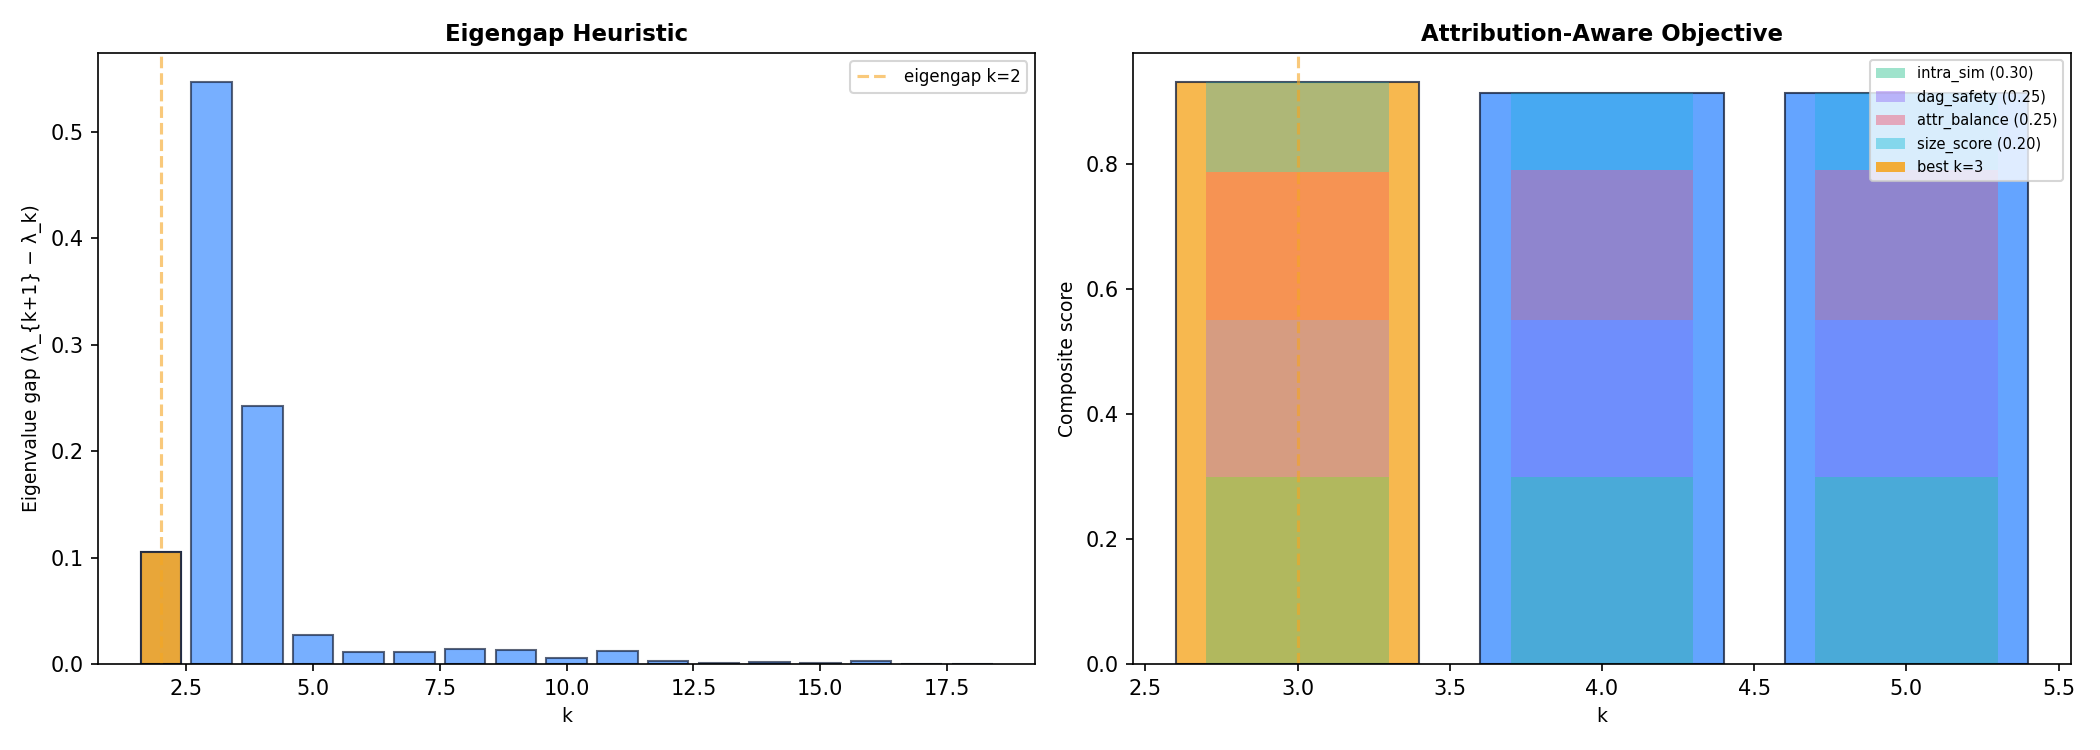
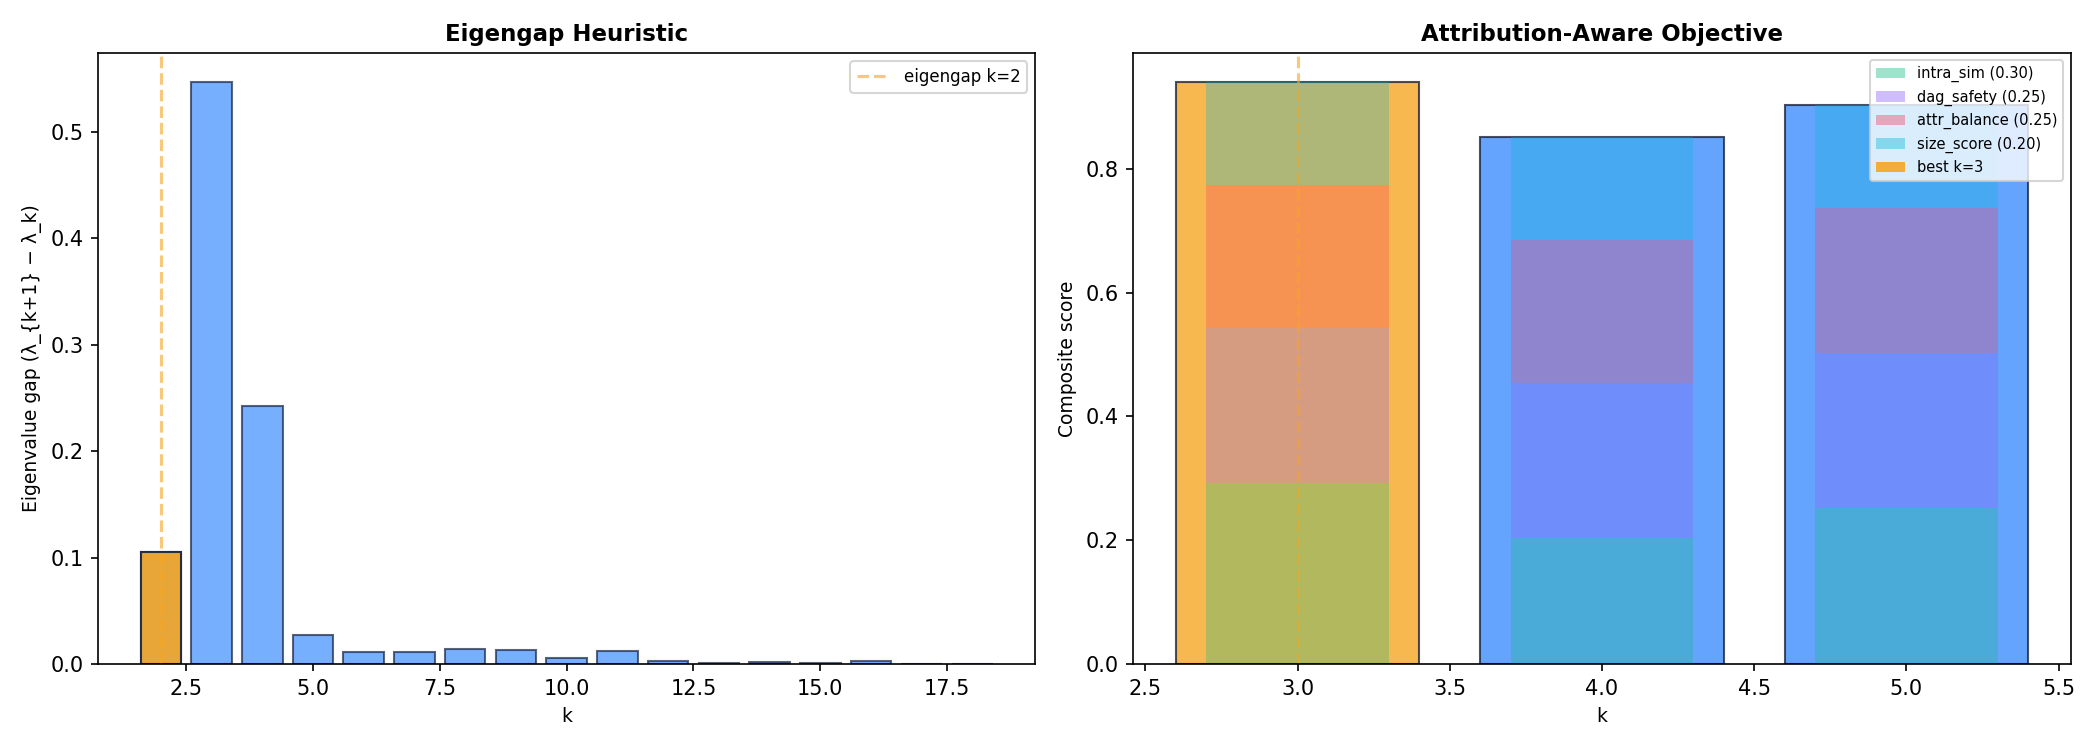
Update

diff --git a/circuit_sp_rep.html b/circuit_sp_rep.html
@@ -278,8 +278,8 @@ svg { width:100%; height:100%; }
 
 <script>
 const GRAPH_DATA    = {"nodes":[{"id":"1_89326_9","idx":0,"layer":1,"clerp":"Dallas","activation":9.1875,"influence":0.4841025769710541,"inf_to_logit":0.4841025769710541,"node_inf":0.6338451504707336,"node_rel":0.6352778077125549,"type":"transcoder","ctx_idx":9},{"id":"7_24743_9","idx":1,"layer":7,"clerp":"Texas legal matters","activation":3.515625,"influence":0.4604751169681549,"inf_to_logit":0.4604751169681549,"node_inf":0.6120493412017822,"node_rel":0.6976507902145386,"type":"transcoder","ctx_idx":9},{"id":"16_89970_9","idx":2,"layer":16,"clerp":"Texas","activation":2.40625,"influence":0.40106865763664246,"inf_to_logit":0.40106865763664246,"node_inf":0.5723963379859924,"node_rel":0.6424320340156555,"type":"transcoder","ctx_idx":9},{"id":"17_1822_10","idx":3,"layer":17,"clerp":"place names","activation":2.0625,"influence":0.4918775260448456,"inf_to_logit":0.4918775260448456,"node_inf":0.6403317451477051,"node_rel":0.5670413374900818,"type":"transcoder","ctx_idx":10},{"id":"17_98126_10","idx":4,"layer":17,"clerp":"Government buildings/institutions","activation":2.5,"influence":0.4994155764579773,"inf_to_logit":0.4994155764579773,"node_inf":0.6271374821662903,"node_rel":0.6482846140861511,"type":"transcoder","ctx_idx":10},{"id":"18_3623_10","idx":5,"layer":18,"clerp":"capital cities","activation":1.515625,"influence":0.43141090869903564,"inf_to_logit":0.43141090869903564,"node_inf":0.5764042735099792,"node_rel":0.6277174353599548,"type":"transcoder","ctx_idx":10},{"id":"18_45367_10","idx":6,"layer":18,"clerp":"US cities","activation":0.50390625,"influence":0.5699911713600159,"inf_to_logit":0.5699911713600159,"node_inf":0.6881327033042908,"node_rel":0.5960058569908142,"type":"transcoder","ctx_idx":10},{"id":"18_61980_10","idx":7,"layer":18,"clerp":"Texas related","activation":2.265625,"influence":0.5064738988876343,"inf_to_logit":0.5064738988876343,"node_inf":0.6503652334213257,"node_rel":0.6506885290145874,"type":"transcoder","ctx_idx":10},{"id":"19_54790_10","idx":8,"layer":19,"clerp":"Places","activation":3.9375,"influence":0.47289544343948364,"inf_to_logit":0.47289544343948364,"node_inf":0.6360085010528564,"node_rel":0.6441317796707153,"type":"transcoder","ctx_idx":10},{"id":"20_44686_9","idx":9,"layer":20,"clerp":"Texas locations/legal contexts","activation":3.203125,"influence":0.405597448348999,"inf_to_logit":0.405597448348999,"node_inf":0.5682745575904846,"node_rel":0.5120062232017517,"type":"transcoder","ctx_idx":9},{"id":"20_44686_10","idx":10,"layer":20,"clerp":"Texas locations/legal contexts","activation":4.25,"influence":0.35407084226608276,"inf_to_logit":0.35407084226608276,"node_inf":0.5273332595825195,"node_rel":0.5191220045089722,"type":"transcoder","ctx_idx":10},{"id":"20_74108_10","idx":11,"layer":20,"clerp":"capital","activation":4.5625,"influence":0.4190360903739929,"inf_to_logit":0.4190360903739929,"node_inf":0.5873730778694153,"node_rel":0.5618082284927368,"type":"transcoder","ctx_idx":10},{"id":"21_61721_10","idx":12,"layer":21,"clerp":"code/documentation","activation":2.78125,"influence":0.46988311409950256,"inf_to_logit":0.46988311409950256,"node_inf":0.6148593425750732,"node_rel":0.5810048580169678,"type":"transcoder","ctx_idx":10},{"id":"21_84338_10","idx":13,"layer":21,"clerp":"Cities and locations","activation":3.71875,"influence":0.42747077345848083,"inf_to_logit":0.42747077345848083,"node_inf":0.5839060544967651,"node_rel":0.5022703409194946,"type":"transcoder","ctx_idx":10},{"id":"22_11998_10","idx":14,"layer":22,"clerp":"Texas and Dallas","activation":5.125,"influence":0.3718968629837036,"inf_to_logit":0.3718968629837036,"node_inf":0.5599021315574646,"node_rel":0.494268000125885,"type":"transcoder","ctx_idx":10},{"id":"22_32893_10","idx":15,"layer":22,"clerp":"Texas legal documents","activation":4.1875,"influence":0.4536067843437195,"inf_to_logit":0.4536067843437195,"node_inf":0.5907537937164307,"node_rel":0.522559642791748,"type":"transcoder","ctx_idx":10},{"id":"22_74186_10","idx":16,"layer":22,"clerp":"general news snippets","activation":0.4140625,"influence":0.555222749710083,"inf_to_logit":0.555222749710083,"node_inf":0.6697282791137695,"node_rel":0.5463791489601135,"type":"transcoder","ctx_idx":10},{"id":"22_81571_10","idx":17,"layer":22,"clerp":"Texas locations and organizations","activation":1.1484375,"influence":0.5288102030754089,"inf_to_logit":0.5288102030754089,"node_inf":0.6626384854316711,"node_rel":0.5418845415115356,"type":"transcoder","ctx_idx":10},{"id":"E_6037_4","idx":18,"layer":0,"clerp":"Emb: \"  capital\"","activation":22.61808216571808,"influence":0.2261808216571808,"inf_to_logit":0.2261808216571808,"node_inf":0.4552099406719208,"node_rel":0.052556075155735016,"type":"embedding","ctx_idx":4},{"id":"E_2329_7","idx":19,"layer":0,"clerp":"Emb: \"  state\"","activation":30.94547390937805,"influence":0.3094547390937805,"inf_to_logit":0.3094547390937805,"node_inf":0.5198944807052612,"node_rel":0.15766821801662445,"type":"embedding","ctx_idx":7},{"id":"E_26865_9","idx":20,"layer":0,"clerp":"Emb: \"  Dallas\"","activation":11.287522315979004,"influence":0.11287522315979004,"inf_to_logit":0.11287522315979004,"node_inf":0.38820645213127136,"node_rel":0.10511215031147003,"type":"embedding","ctx_idx":9},{"id":"27_22605_10","idx":21,"layer":27,"clerp":"Output \" Austin\" (p=0.439)","activation":43.9453125,"influence":0.0,"inf_to_logit":0.0,"node_inf":0.30819204449653625,"node_rel":0.27505144476890564,"type":"logit","ctx_idx":10}],"edges":[{"source":"1_89326_9","target":"7_24743_9","weight":-0.9765625,"flow":-8.97216796875,"abs_flow":8.97216796875,"to_logit":false},{"source":"1_89326_9","target":"20_44686_9","weight":-0.5390625,"flow":-4.95263671875,"abs_flow":4.95263671875,"to_logit":false},{"source":"7_24743_9","target":"16_89970_9","weight":0.48046875,"flow":1.68914794921875,"abs_flow":1.68914794921875,"to_logit":false},{"source":"7_24743_9","target":"20_44686_9","weight":0.62890625,"flow":2.21099853515625,"abs_flow":2.21099853515625,"to_logit":false},{"source":"7_24743_9","target":"20_44686_10","weight":0.578125,"flow":2.032470703125,"abs_flow":2.032470703125,"to_logit":false},{"source":"7_24743_9","target":"27_22605_10","weight":0.6875,"flow":2.4169921875,"abs_flow":2.4169921875,"to_logit":true},{"source":"16_89970_9","target":"20_44686_9","weight":1.28125,"flow":3.0830078125,"abs_flow":3.0830078125,"to_logit":false},{"source":"16_89970_9","target":"20_44686_10","weight":0.609375,"flow":1.46630859375,"abs_flow":1.46630859375,"to_logit":false},{"source":"16_89970_9","target":"22_11998_10","weight":0.447265625,"flow":1.07623291015625,"abs_flow":1.07623291015625,"to_logit":false},{"source":"16_89970_9","target":"27_22605_10","weight":1.0859375,"flow":2.613037109375,"abs_flow":2.613037109375,"to_logit":true},{"source":"17_1822_10","target":"27_22605_10","weight":0.578125,"flow":1.1923828125,"abs_flow":1.1923828125,"to_logit":true},{"source":"17_98126_10","target":"18_3623_10","weight":1.1875,"flow":2.96875,"abs_flow":2.96875,"to_logit":false},{"source":"17_98126_10","target":"20_74108_10","weight":0.8046875,"flow":2.01171875,"abs_flow":2.01171875,"to_logit":false},{"source":"17_98126_10","target":"27_22605_10","weight":0.578125,"flow":1.4453125,"abs_flow":1.4453125,"to_logit":true},{"source":"18_3623_10","target":"21_84338_10","weight":0.9765625,"flow":1.4801025390625,"abs_flow":1.4801025390625,"to_logit":false},{"source":"18_3623_10","target":"27_22605_10","weight":1.109375,"flow":1.681396484375,"abs_flow":1.681396484375,"to_logit":true},{"source":"18_45367_10","target":"27_22605_10","weight":0.359375,"flow":0.18109130859375,"abs_flow":0.18109130859375,"to_logit":true},{"source":"18_61980_10","target":"27_22605_10","weight":-0.5234375,"flow":-1.1859130859375,"abs_flow":1.1859130859375,"to_logit":true},{"source":"19_54790_10","target":"27_22605_10","weight":0.5625,"flow":2.21484375,"abs_flow":2.21484375,"to_logit":true},{"source":"20_44686_9","target":"27_22605_10","weight":1.1875,"flow":3.8037109375,"abs_flow":3.8037109375,"to_logit":true},{"source":"20_44686_10","target":"21_61721_10","weight":0.98828125,"flow":4.2001953125,"abs_flow":4.2001953125,"to_logit":false},{"source":"20_44686_10","target":"22_11998_10","weight":1.4140625,"flow":6.009765625,"abs_flow":6.009765625,"to_logit":false},{"source":"20_44686_10","target":"22_32893_10","weight":1.046875,"flow":4.44921875,"abs_flow":4.44921875,"to_logit":false},{"source":"20_44686_10","target":"22_81571_10","weight":1.3046875,"flow":5.544921875,"abs_flow":5.544921875,"to_logit":false},{"source":"20_44686_10","target":"27_22605_10","weight":2.046875,"flow":8.69921875,"abs_flow":8.69921875,"to_logit":true},{"source":"20_74108_10","target":"27_22605_10","weight":0.96875,"flow":4.419921875,"abs_flow":4.419921875,"to_logit":true},{"source":"21_61721_10","target":"27_22605_10","weight":0.8203125,"flow":2.281494140625,"abs_flow":2.281494140625,"to_logit":true},{"source":"21_84338_10","target":"22_32893_10","weight":0.66015625,"flow":2.4549560546875,"abs_flow":2.4549560546875,"to_logit":false},{"source":"21_84338_10","target":"27_22605_10","weight":1.0,"flow":3.71875,"abs_flow":3.71875,"to_logit":true},{"source":"22_11998_10","target":"27_22605_10","weight":-1.3125,"flow":-6.7265625,"abs_flow":6.7265625,"to_logit":true},{"source":"22_32893_10","target":"27_22605_10","weight":1.0,"flow":4.1875,"abs_flow":4.1875,"to_logit":true},{"source":"22_74186_10","target":"27_22605_10","weight":-0.408203125,"flow":-0.1690216064453125,"abs_flow":0.1690216064453125,"to_logit":true},{"source":"22_81571_10","target":"27_22605_10","weight":-0.4609375,"flow":-0.52935791015625,"abs_flow":0.52935791015625,"to_logit":true},{"source":"E_6037_4","target":"17_1822_10","weight":0.88671875,"flow":20.055877685546875,"abs_flow":20.055877685546875,"to_logit":false},{"source":"E_6037_4","target":"17_98126_10","weight":1.359375,"flow":30.746456146240234,"abs_flow":30.746456146240234,"to_logit":false},{"source":"E_6037_4","target":"18_3623_10","weight":0.474609375,"flow":10.734753608703613,"abs_flow":10.734753608703613,"to_logit":false},{"source":"E_6037_4","target":"18_45367_10","weight":1.1015625,"flow":24.915231704711914,"abs_flow":24.915231704711914,"to_logit":false},{"source":"E_6037_4","target":"19_54790_10","weight":0.8046875,"flow":18.20048713684082,"abs_flow":18.20048713684082,"to_logit":false},{"source":"E_6037_4","target":"20_44686_10","weight":0.361328125,"flow":8.1725492477417,"abs_flow":8.1725492477417,"to_logit":false},{"source":"E_6037_4","target":"20_74108_10","weight":1.0078125,"flow":22.79478645324707,"abs_flow":22.79478645324707,"to_logit":false},{"source":"E_6037_4","target":"21_61721_10","weight":0.6953125,"flow":15.726634979248047,"abs_flow":15.726634979248047,"to_logit":false},{"source":"E_6037_4","target":"21_84338_10","weight":0.73046875,"flow":16.52180290222168,"abs_flow":16.52180290222168,"to_logit":false},{"source":"E_6037_4","target":"22_11998_10","weight":0.43359375,"flow":9.807059288024902,"abs_flow":9.807059288024902,"to_logit":false},{"source":"E_6037_4","target":"27_22605_10","weight":-0.470703125,"flow":-10.646402359008789,"abs_flow":10.646402359008789,"to_logit":true},{"source":"E_2329_7","target":"16_89970_9","weight":0.2490234375,"flow":7.706148624420166,"abs_flow":7.706148624420166,"to_logit":false},{"source":"E_2329_7","target":"17_98126_10","weight":0.56640625,"flow":17.5277099609375,"abs_flow":17.5277099609375,"to_logit":false},{"source":"E_2329_7","target":"20_44686_10","weight":0.333984375,"flow":10.335305213928223,"abs_flow":10.335305213928223,"to_logit":false},{"source":"E_2329_7","target":"20_74108_10","weight":0.5625,"flow":17.406829833984375,"abs_flow":17.406829833984375,"to_logit":false},{"source":"E_2329_7","target":"27_22605_10","weight":0.431640625,"flow":13.35732364654541,"abs_flow":13.35732364654541,"to_logit":true},{"source":"E_26865_9","target":"1_89326_9","weight":9.6875,"flow":109.34786987304688,"abs_flow":109.34786987304688,"to_logit":false},{"source":"E_26865_9","target":"7_24743_9","weight":5.125,"flow":57.84855270385742,"abs_flow":57.84855270385742,"to_logit":false},{"source":"E_26865_9","target":"16_89970_9","weight":3.390625,"flow":38.27175521850586,"abs_flow":38.27175521850586,"to_logit":false},{"source":"E_26865_9","target":"18_61980_10","weight":2.234375,"flow":25.220558166503906,"abs_flow":25.220558166503906,"to_logit":false},{"source":"E_26865_9","target":"20_44686_9","weight":5.53125,"flow":62.43410873413086,"abs_flow":62.43410873413086,"to_logit":false},{"source":"E_26865_9","target":"20_44686_10","weight":3.75,"flow":42.328208923339844,"abs_flow":42.328208923339844,"to_logit":false},{"source":"E_26865_9","target":"21_61721_10","weight":0.57421875,"flow":6.481506824493408,"abs_flow":6.481506824493408,"to_logit":false},{"source":"E_26865_9","target":"22_11998_10","weight":3.5625,"flow":40.21179962158203,"abs_flow":40.21179962158203,"to_logit":false},{"source":"E_26865_9","target":"22_32893_10","weight":1.328125,"flow":14.991240501403809,"abs_flow":14.991240501403809,"to_logit":false},{"source":"E_26865_9","target":"22_74186_10","weight":2.171875,"flow":24.515087127685547,"abs_flow":24.515087127685547,"to_logit":false},{"source":"E_26865_9","target":"22_81571_10","weight":1.1640625,"flow":13.139381408691406,"abs_flow":13.139381408691406,"to_logit":false},{"source":"E_26865_9","target":"27_22605_10","weight":4.65625,"flow":52.557525634765625,"abs_flow":52.557525634765625,"to_logit":true}]};
-const SUPERNODE_MAP = {"SN_00_L1":["1_89326_9"],"SN_01_L7":["7_24743_9"],"SN_02_L16":["16_89970_9"],"SN_03_L17":["17_1822_10","17_98126_10"],"SN_04_L18":["18_61980_10"],"SN_05_L18_19":["18_3623_10","18_45367_10","19_54790_10"],"SN_06_L20_22":["20_44686_9","20_44686_10","22_32893_10"],"SN_07_L20_21":["20_74108_10","21_61721_10","21_84338_10"],"SN_08_L22":["22_11998_10","22_74186_10","22_81571_10"],"SN_EMB":["E_6037_4","E_2329_7","E_26865_9"],"SN_LOGIT":["27_22605_10"]};
-const SN_FLOW_DATA  = {"sn_names":["SN_00_L1","SN_01_L7","SN_02_L16","SN_03_L17","SN_04_L18","SN_05_L18_19","SN_06_L20_22","SN_07_L20_21","SN_08_L22","SN_EMB","SN_LOGIT"],"sn_adj":[[0.0,-0.9765625,0.0,0.0,0.0,0.0,-0.5390625,0.0,0.0,0.0,0.0],[0.0,0.0,0.48046875,0.0,0.0,0.0,1.20703125,0.0,0.0,0.0,0.6875],[0.0,0.0,0.0,0.0,0.0,0.0,1.890625,0.0,0.447265625,0.0,1.0859375],[0.0,0.0,0.0,0.0,0.0,1.1875,0.0,0.8046875,0.0,0.0,1.15625],[0.0,0.0,0.0,0.0,0.0,0.0,0.0,0.0,0.0,0.0,-0.5234375],[0.0,0.0,0.0,0.0,0.0,0.0,0.0,0.9765625,0.0,0.0,2.03125],[0.0,0.0,0.0,0.0,0.0,0.0,0.0,0.98828125,2.71875,0.0,4.234375],[0.0,0.0,0.0,0.0,0.0,0.0,0.66015625,0.0,0.0,0.0,2.7890625],[0.0,0.0,0.0,0.0,0.0,0.0,0.0,0.0,0.0,0.0,-2.181640625],[9.6875,5.125,3.6396484375,2.8125,2.234375,2.380859375,11.3046875,3.5703125,7.33203125,0.0,4.6171875],[0.0,0.0,0.0,0.0,0.0,0.0,0.0,0.0,0.0,0.0,0.0]],"F_sn":[[0.0,-0.9765625,0.0,0.0,0.0,0.0,-0.5390625,0.0,0.0,0.0,0.0],[0.0,0.0,0.48046875,0.0,0.0,0.0,1.20703125,0.0,0.0,0.0,0.6875],[0.0,0.0,0.0,0.0,0.0,0.0,1.890625,0.0,0.447265625,0.0,1.0859375],[0.0,0.0,0.0,0.0,0.0,1.1875,0.0,0.8046875,0.0,0.0,1.15625],[0.0,0.0,0.0,0.0,0.0,0.0,0.0,0.0,0.0,0.0,-0.5234375],[0.0,0.0,0.0,0.0,0.0,0.0,0.0,0.9765625,0.0,0.0,2.03125],[0.0,0.0,0.0,0.0,0.0,0.0,0.0,0.98828125,2.71875,0.0,4.234375],[0.0,0.0,0.0,0.0,0.0,0.0,0.66015625,0.0,0.0,0.0,2.7890625],[0.0,0.0,0.0,0.0,0.0,0.0,0.0,0.0,0.0,0.0,-2.181640625],[9.6875,5.125,3.6396484375,2.8125,2.234375,2.380859375,11.3046875,3.5703125,7.33203125,0.0,4.6171875],[0.0,0.0,0.0,0.0,0.0,0.0,0.0,0.0,0.0,0.0,0.0]],"sn_reach":[0.4841025769710541,0.4604751169681549,0.40106865763664246,0.9912931025028229,0.5064738988876343,1.4742975234985352,1.2132750749588013,1.3163899779319763,1.4559298157691956,0.6485107839107513,0.0],"sn_act_norm":[0.20906666666666668,0.08,0.05475555555555556,0.05688888888888889,0.051555555555555556,0.0896,0.09671111111111111,0.10382222222222222,0.11662222222222222,0.7041814507378472,1.0],"preservation":0.9999999999998883,"orig_reach":8.951816529035568,"surr_reach":8.951816529035568,"dominant_paths":[{"src":"SN_EMB","tgt":"SN_06_L20_22","weight":11.3046875},{"src":"SN_EMB","tgt":"SN_00_L1","weight":9.6875},{"src":"SN_EMB","tgt":"SN_08_L22","weight":7.33203125},{"src":"SN_EMB","tgt":"SN_01_L7","weight":5.125},{"src":"SN_EMB","tgt":"SN_LOGIT","weight":4.6171875}],"bottleneck_sns":["SN_00_L1","SN_06_L20_22","SN_07_L20_21","SN_08_L22"]};   // null if not provided
+const SUPERNODE_MAP = {"SN_00_L1_7":["1_89326_9","7_24743_9"],"SN_01_L16":["16_89970_9"],"SN_02_L17":["17_1822_10","17_98126_10"],"SN_03_L18":["18_61980_10"],"SN_04_L18_19":["18_3623_10","18_45367_10","19_54790_10"],"SN_05_L20_22":["20_44686_9","20_44686_10","22_32893_10","20_74108_10","21_61721_10","21_84338_10"],"SN_06_L22":["22_11998_10","22_74186_10","22_81571_10"],"SN_EMB":["E_6037_4","E_2329_7","E_26865_9"],"SN_LOGIT":["27_22605_10"]};
+const SN_FLOW_DATA  = {"sn_names":["SN_00_L1_7","SN_01_L16","SN_02_L17","SN_03_L18","SN_04_L18_19","SN_05_L20_22","SN_06_L22","SN_EMB","SN_LOGIT"],"sn_adj":[[0.0,0.48046875,0.0,0.0,0.0,0.66796875,0.0,0.0,0.6875],[0.0,0.0,0.0,0.0,0.0,1.890625,0.447265625,0.0,1.0859375],[0.0,0.0,0.0,0.0,1.1875,0.8046875,0.0,0.0,1.15625],[0.0,0.0,0.0,0.0,0.0,0.0,0.0,0.0,-0.5234375],[0.0,0.0,0.0,0.0,0.0,0.9765625,0.0,0.0,2.03125],[0.0,0.0,0.0,0.0,0.0,0.0,2.71875,0.0,7.0234375],[0.0,0.0,0.0,0.0,0.0,0.0,0.0,0.0,-2.181640625],[14.8125,3.6396484375,2.8125,2.234375,2.380859375,14.875,7.33203125,0.0,4.6171875],[0.0,0.0,0.0,0.0,0.0,0.0,0.0,0.0,0.0]],"F_sn":[[0.0,0.48046875,0.0,0.0,0.0,0.66796875,0.0,0.0,0.6875],[0.0,0.0,0.0,0.0,0.0,1.890625,0.447265625,0.0,1.0859375],[0.0,0.0,0.0,0.0,1.1875,0.8046875,0.0,0.0,1.15625],[0.0,0.0,0.0,0.0,0.0,0.0,0.0,0.0,-0.5234375],[0.0,0.0,0.0,0.0,0.0,0.9765625,0.0,0.0,2.03125],[0.0,0.0,0.0,0.0,0.0,0.0,2.71875,0.0,7.0234375],[0.0,0.0,0.0,0.0,0.0,0.0,0.0,0.0,-2.181640625],[14.8125,3.6396484375,2.8125,2.234375,2.380859375,14.875,7.33203125,0.0,4.6171875],[0.0,0.0,0.0,0.0,0.0,0.0,0.0,0.0,0.0]],"sn_reach":[0.944577693939209,0.40106865763664246,0.9912931025028229,0.5064738988876343,1.4742975234985352,2.5296650528907776,1.4559298157691956,0.6485107839107513,0.0],"sn_act_norm":[0.20906666666666668,0.05475555555555556,0.05688888888888889,0.051555555555555556,0.0896,0.10382222222222222,0.11662222222222222,0.7041814507378472,1.0],"preservation":0.9999999999998883,"orig_reach":8.951816529035568,"surr_reach":8.951816529035568,"dominant_paths":[{"src":"SN_EMB","tgt":"SN_05_L20_22","weight":14.875},{"src":"SN_EMB","tgt":"SN_00_L1_7","weight":14.8125},{"src":"SN_EMB","tgt":"SN_06_L22","weight":7.33203125},{"src":"SN_05_L20_22","tgt":"SN_LOGIT","weight":7.0234375},{"src":"SN_EMB","tgt":"SN_LOGIT","weight":4.6171875}],"bottleneck_sns":["SN_00_L1_7","SN_05_L20_22","SN_06_L22"]};   // null if not provided
 
 // ── Palette ──────────────────────────────────────────────────────────────────
 const SN_PALETTE = [

diff --git a/structure_grouping.py b/structure_grouping.py
@@ -180,7 +180,7 @@ def cluster_middle_nodes(data: dict,
 def cluster_with_target_k(data: dict,
                           S: torch.Tensor,
                           target_k: int = 7,
-                          max_layer_span: int = 4) -> dict:
+                          max_layer_span: int = 4, max_sn: int = None) -> dict:
     from sklearn.cluster import SpectralClustering
 
     kept_ids   = data['kept_ids']
@@ -232,7 +232,7 @@ def cluster_with_target_k(data: dict,
             raw_clusters[nearest].append(nid)
 
     print(f'  Spectral clusters (before DAG enforcement): {len(raw_clusters)}')
-    return enforce_dag(dict(raw_clusters), data, max_layer_span)
+    return enforce_dag(dict(raw_clusters), data, max_layer_span, max_sn)
 
 
 # ─────────────────────────────────────────────────────────────────────────────
@@ -241,7 +241,7 @@ def cluster_with_target_k(data: dict,
 
 def enforce_dag(raw_clusters: dict,
                 data: dict,
-                max_layer_span: int = 4) -> dict:
+                max_layer_span: int = 4, max_sn=None) -> dict:
     layers = {nid: parse_layer(nid)
               for members in raw_clusters.values() for nid in members}
 
@@ -288,7 +288,8 @@ def enforce_dag(raw_clusters: dict,
                         break
             if changed:
                 break
-
+    if max_sn is not None and len(final) > max_sn:
+        final = merge_to_budget(final, layers, max_sn)
     final_supernodes = {}
     for idx, members in enumerate(final):
         lo = min(layers[n] for n in members)
@@ -806,7 +807,23 @@ def build_synthetic_snapshot() -> dict:
         )
     return dict(kept_ids=kept_ids, pruned_adj=adj, attr=attr)
 
-
+def merge_to_budget(final: list[list[str]], layers: dict, max_sn: int) -> list[list[str]]:
+    """
+    Greedily merge layer-adjacent cluster pairs until len(final) <= max_sn.
+    Merge criterion: smallest centroid-layer gap (preserves DAG order).
+    """
+    while len(final) > max_sn:
+        best_i, best_j, best_gap = 0, 1, float('inf')
+        for i in range(len(final)):
+            for j in range(i + 1, len(final)):
+                ci = np.mean([layers[n] for n in final[i]])
+                cj = np.mean([layers[n] for n in final[j]])
+                if abs(ci - cj) < best_gap:
+                    best_i, best_j, best_gap = i, j, abs(ci - cj)
+        final[best_i] = final[best_i] + final[best_j]
+        final.pop(best_j)
+        final.sort(key=lambda m: min(layers[n] for n in m))
+    return final
 # ─────────────────────────────────────────────────────────────────────────────
 # 11.  MAIN
 # ─────────────────────────────────────────────────────────────────────────────

diff --git a/auto_grouping.py b/auto_grouping.py
@@ -227,7 +227,7 @@ def find_best_k(data: dict,
                 max_layer_span: int = 4,
                 k_min_override: int = None,
                 k_max_override: int = None,
-                weights: dict = None) -> tuple:
+                weights: dict = None, max_sn=None) -> tuple:
     """
     Full auto-k pipeline:
       1. Eigengap heuristic → search range
@@ -274,7 +274,7 @@ def find_best_k(data: dict,
     for k in range(k_min, k_max + 1):
         try:
             final_sn = cluster_with_target_k(
-                data, S, target_k=k, max_layer_span=max_layer_span)
+                data, S, target_k=k, max_layer_span=max_layer_span, max_sn = max_sn)
         except Exception as e:
             print(f'  k={k} failed: {e}')
             continue
@@ -423,6 +423,8 @@ def main():
     parser.add_argument('--out-plot',       type=str,   default='auto_k_plot.png')
     parser.add_argument('--run-best',       action='store_true',
                         help='Run structure_grouping with best k and save all outputs')
+    parser.add_argument('--max-sn', type=int, default=None,
+                        help='Hard cap on middle supernode count after DAG enforcement')
     args = parser.parse_args()
 
     # ── Load ──────────────────────────────────────────────────────────────────
@@ -449,6 +451,7 @@ def main():
         k_min_override = args.k_min,
         k_max_override = args.k_max,
         weights        = weights,
+        max_sn = args.max_sn,
     )
 
     # ── Save sweep ────────────────────────────────────────────────────────────
